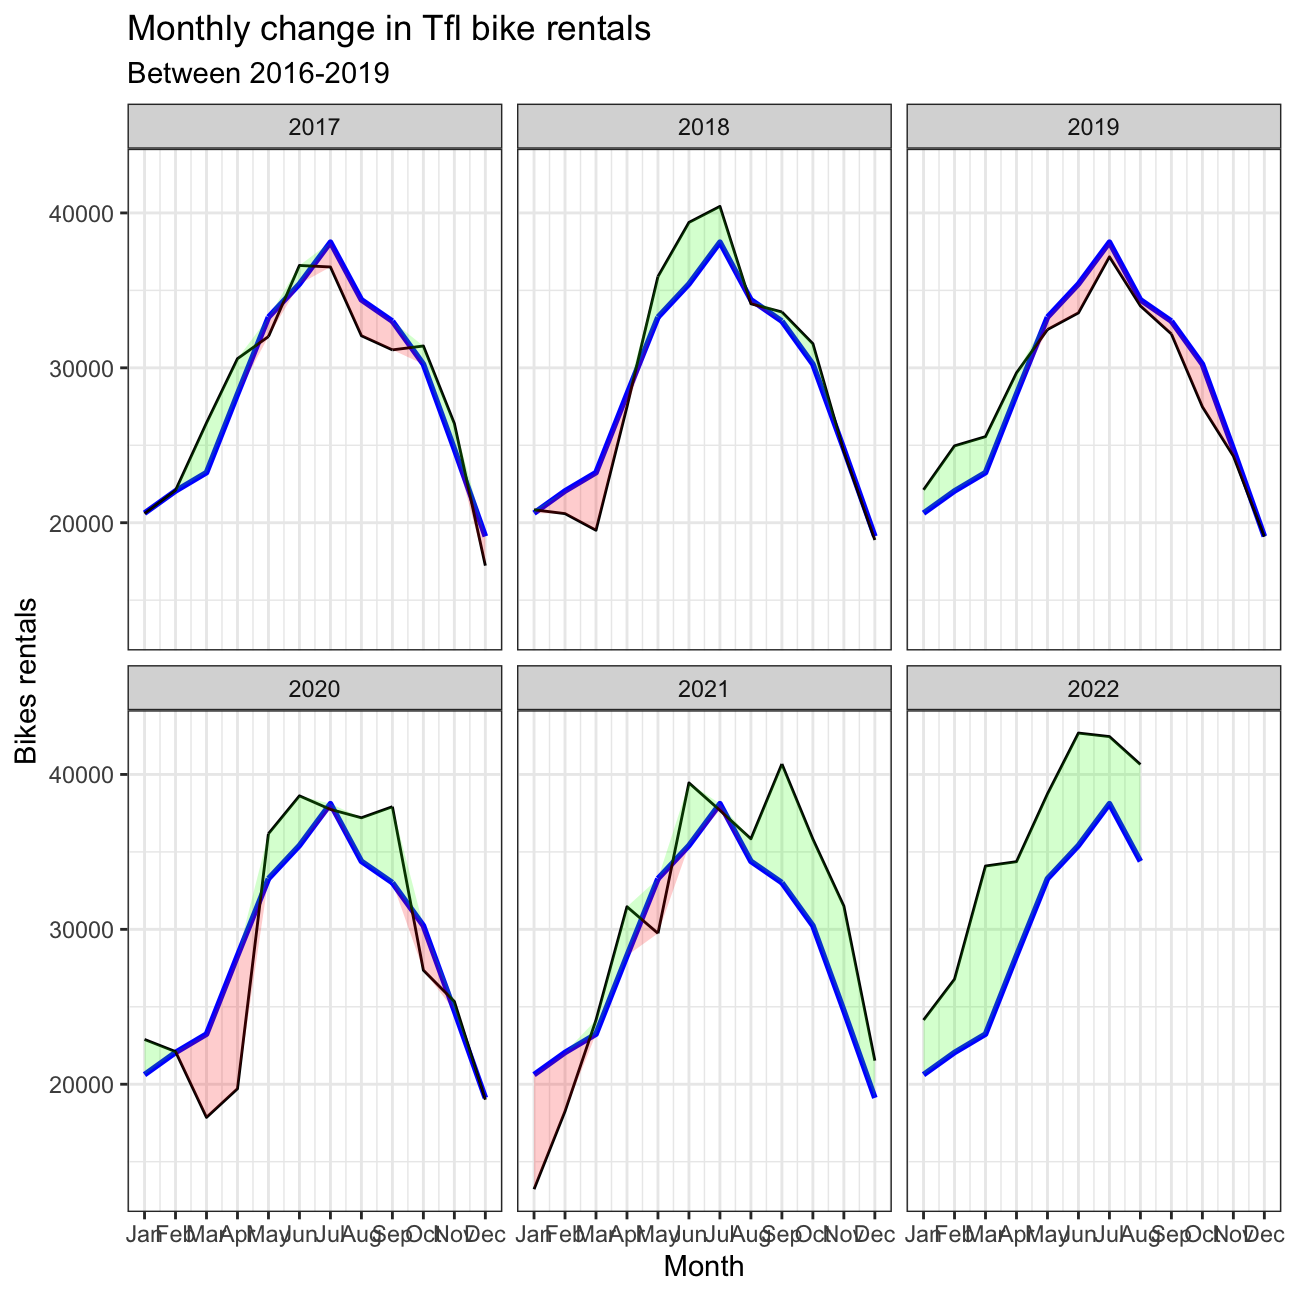
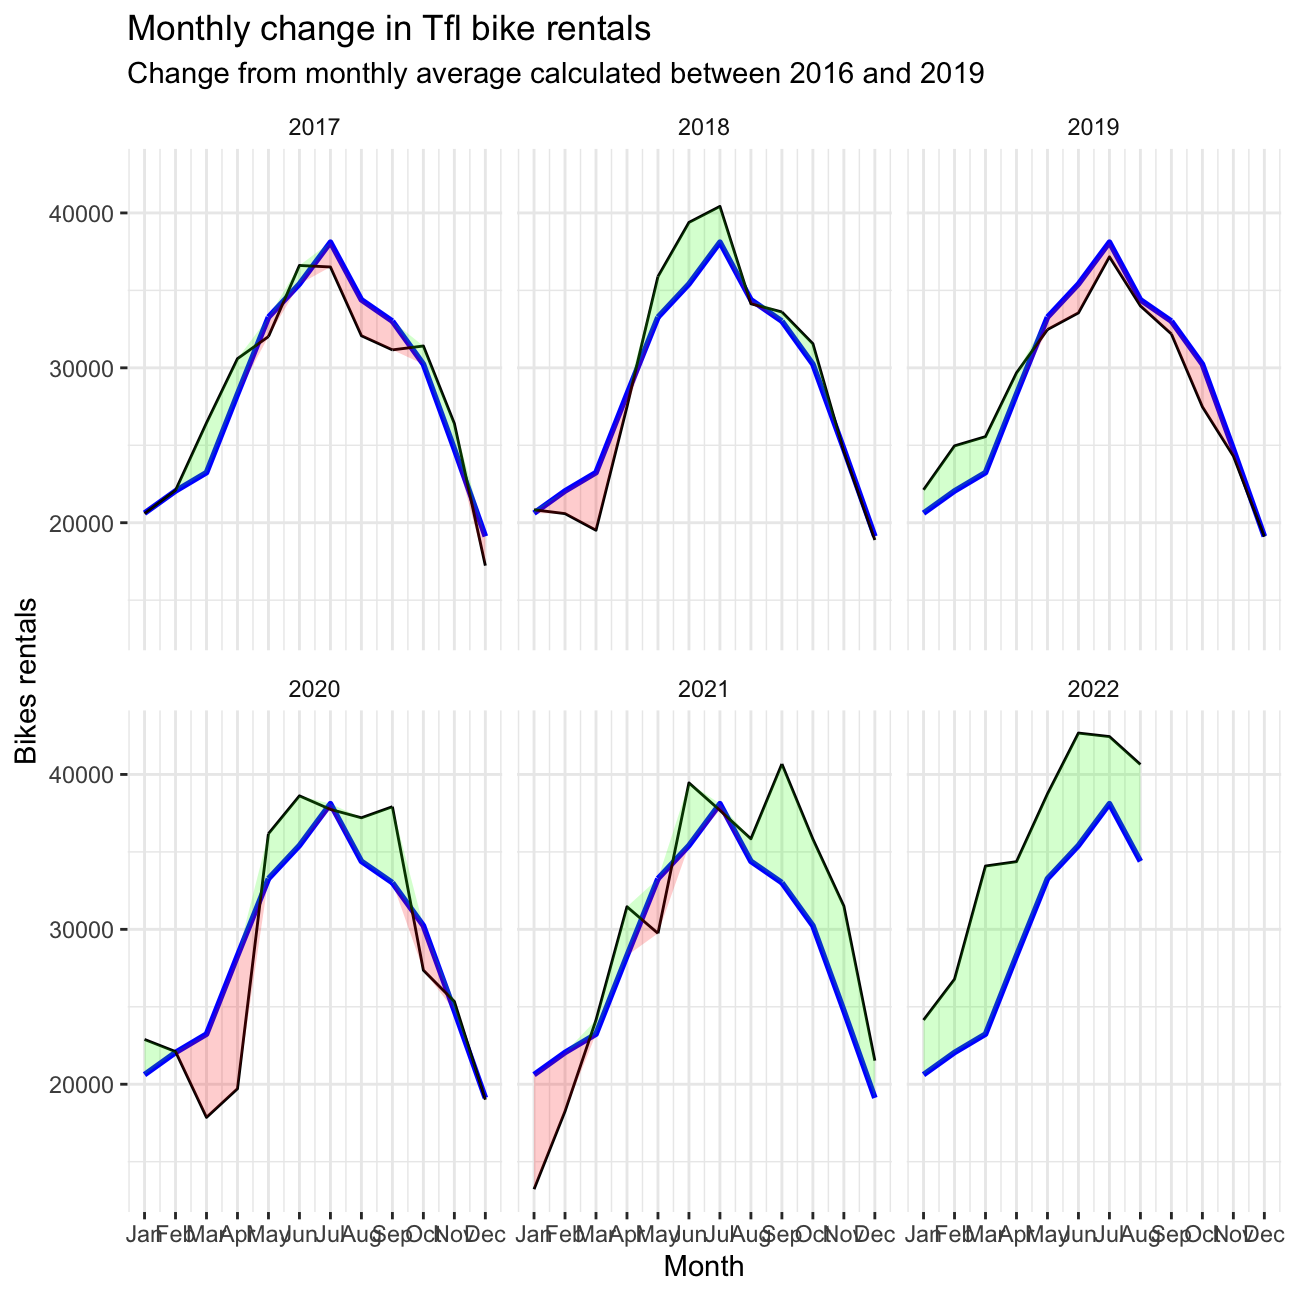
blog 4 is done

Changed region(s): [[0.0926, 0.0309, 1.0, 0.4938], [0.0926, 0.4938, 1.0, 0.9259]]

diff --git a/content/blogs/blog4.html b/content/blogs/blog4.html
@@ -1,8 +1,8 @@
 ---
-title: "Aliquam"
+title: "Bike Rental Data in London"
 description: "YO"
 slug: "project2"
-image: pic07.jpg
+image: bike.jpg
 keywords: ""
 categories: 
     - ""
@@ -14,10 +14,12 @@ draft: false
 
 
 
-<div id="challenge-1-excess-rentals-in-tfl-bike-sharing" class="section level1">
-<h1>Challenge 1: Excess rentals in TfL bike sharing</h1>
-<p>Recall the TfL data on how many bikes were hired every single day. We
-can get the latest data by running the following</p>
+<div id="bike-rentals-in-london" class="section level1">
+<h1>Bike Rentals in London</h1>
+<div id="excess-rentals-in-tfl-bike-sharing" class="section level2">
+<h2>Excess rentals in TfL bike sharing</h2>
+<p>This project presents some visualization around TfL bike sharing usage in London.
+We can get the latest data by running the following.</p>
 <pre class="r"><code>url &lt;- &quot;https://data.london.gov.uk/download/number-bicycle-hires/ac29363e-e0cb-47cc-a97a-e216d900a6b0/tfl-daily-cycle-hires.xlsx&quot;
 
 # Download TFL data to temporary file
@@ -40,17 +42,13 @@ bike &lt;- bike0 %&gt;%
   mutate (year = year(day),
           month = lubridate::month(day, label = FALSE),
           week = week(day))</code></pre>
-<p>We can easily create a facet grid that plots bikes hired by month and
-year since 2015</p>
-<p>However, the challenge I want you to work on is to reproduce the
-following two graphs.</p>
+<p>The first graph displays the change from the monthly average (calculated between 2016-2019), shown by the blue line.</p>
 <p><img src="/blogs/blog4_files/figure-html/tfl_absolute_monthly_change-1.png" width="100%" style="display: block; margin: auto;" /></p>
 <p>The second one looks at percentage changes from the expected level of
 weekly rentals. The two grey shaded rectangles correspond to Q2 (weeks
 14-26) and Q4 (weeks 40-52).</p>
 <p><img src="/blogs/blog4_files/figure-html/tfl_percent_change-1.png" width="100%" style="display: block; margin: auto;" /></p>
-<p>Should you use the mean or the median to calculate your expected
-rentals? Why?</p>
-<p>We should use the mean to calculate expected rentals as</p>
+<p>Weekly changes in bike rentals tend to be quite symmetrical around the weekly average calculated between 2016 and 2019. In second quarter of 2020 and 1st quarter of 2021 roughly correspond to Covid-19 lock-downs in London, which explains the negative difference between the average bike rentals from 2016 to 2019. In 2022, bike rentals were on almost always higher than the calculated average (2016 - 2019). Perhaps an explanation is that this reflects the post lock-down feeling of wanting to be outside more, especially as temperatures rise.</p>
 <hr />
+</div>
 </div>
